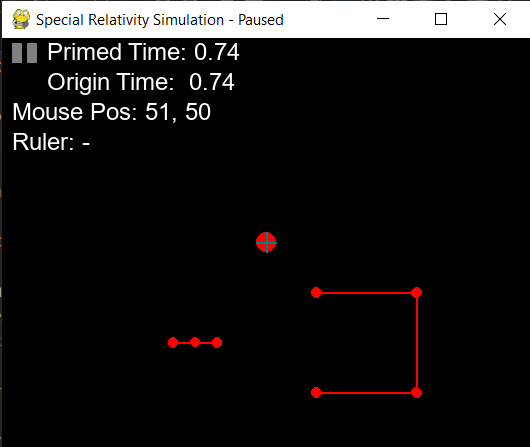
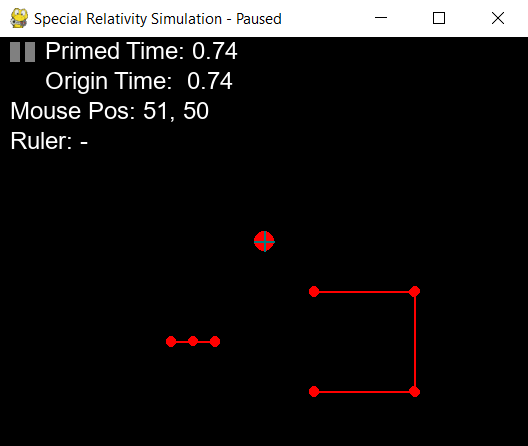
-Fixed extra border in preview image -Minor changes to README

diff --git a/README.md b/README.md
@@ -33,13 +33,16 @@ simulations include:
   are shown completely incorrectly.
 * Electrostatic force test: A test of electrostatic force where the forces propagate 
   at the speed of light.  As a result, particles in the simulation initially remain 
-  motionless, until the forces have had enough time to reach them.
+  motionless, until the forces have had enough time to reach them.  Since this 
+  simulation is relatively slow, the example code will load pre-computed results from 
+  `Electrostatic Simulation.gz`.
 * Moving line of charge: A moving line of charge is placed next to charged particle.  
   This simulation demonstrates the relationship between electricity and magnetism.  
   In one reference frame, the force appears electrostatic due to a net positive 
   charge.  In another frame, the force appears to be magnetic due to a current of 
   moving charges.  This is despite the simulation code only calculating an 
-  electrostatic force.
+  electrostatic force.  Since this simulation is relatively slow, the example code 
+  will load pre-computed results from `Line of Charge Simulation.gz`.
 
 ---
 
@@ -61,10 +64,10 @@ simulation.  The controls for it are as follows:
 
 The following requirements are needed in order to run the program:
 
-| Name       | Version                                 |
-| ---------- | --------------------------------------- |
-| Python     |  >3.8                                   |
-| Pygame     |  Written with 1.9.6, others likely work |
-| Numpy      |   Any                                   |
-| Matplotlib |   Any                                   |
-| Pandas     |   Any                                   |
+| Name       | Version                                            |
+| ---------- | -------------------------------------------------- |
+| Python     |  >3.8                                              |
+| Pygame     |  Originally written with 1.9.6, others likely work |
+| Numpy      |  Any                                               |
+| Matplotlib |  Any                                               |
+| Pandas     |  Any                                               |
